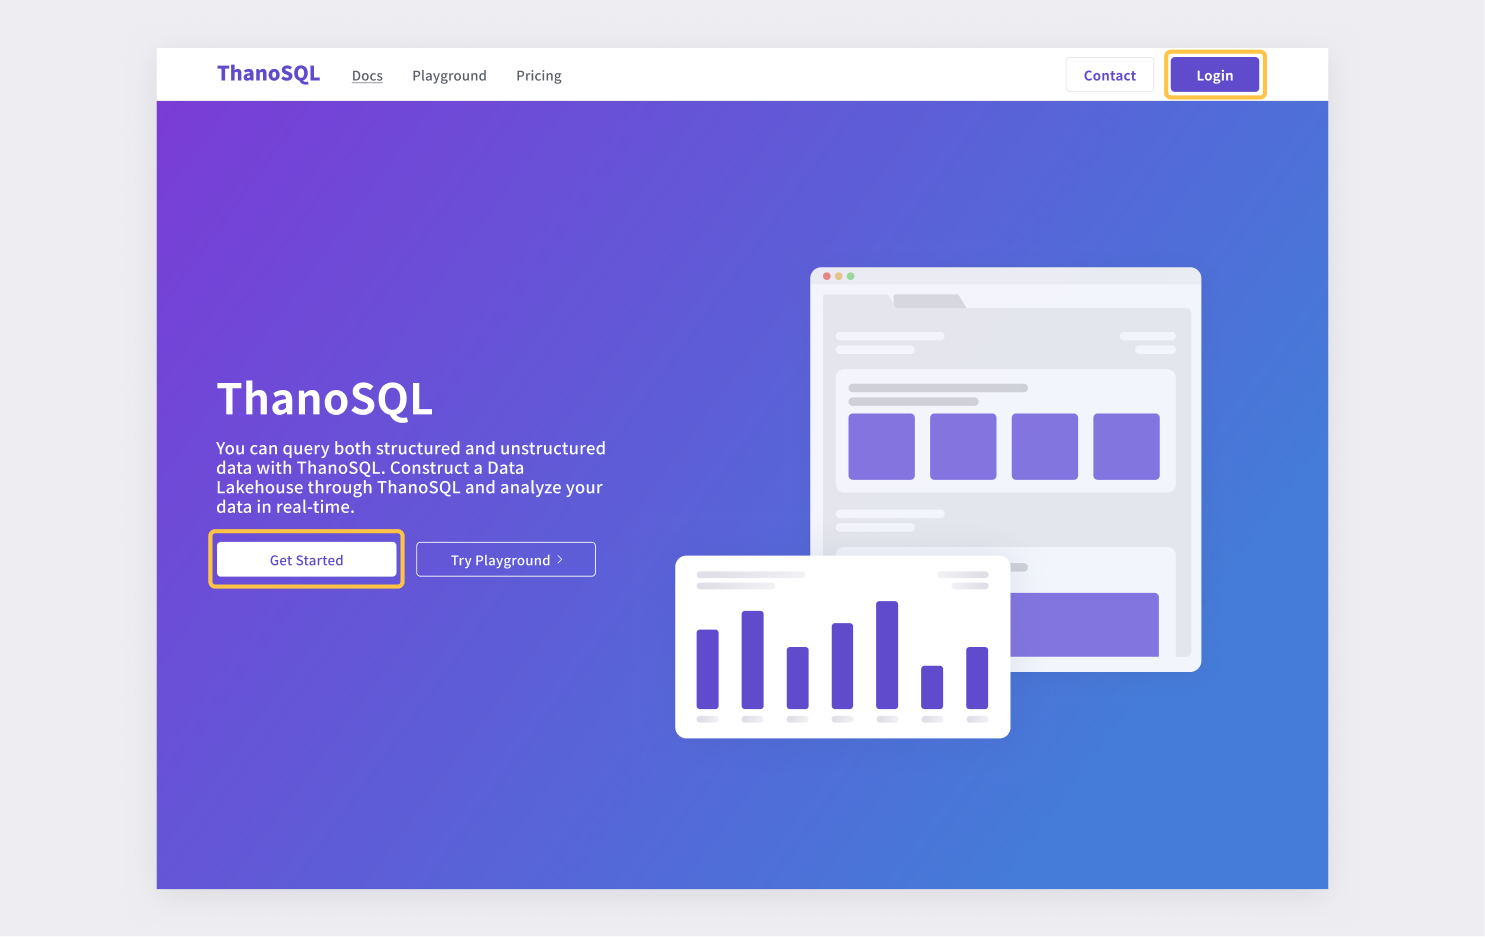
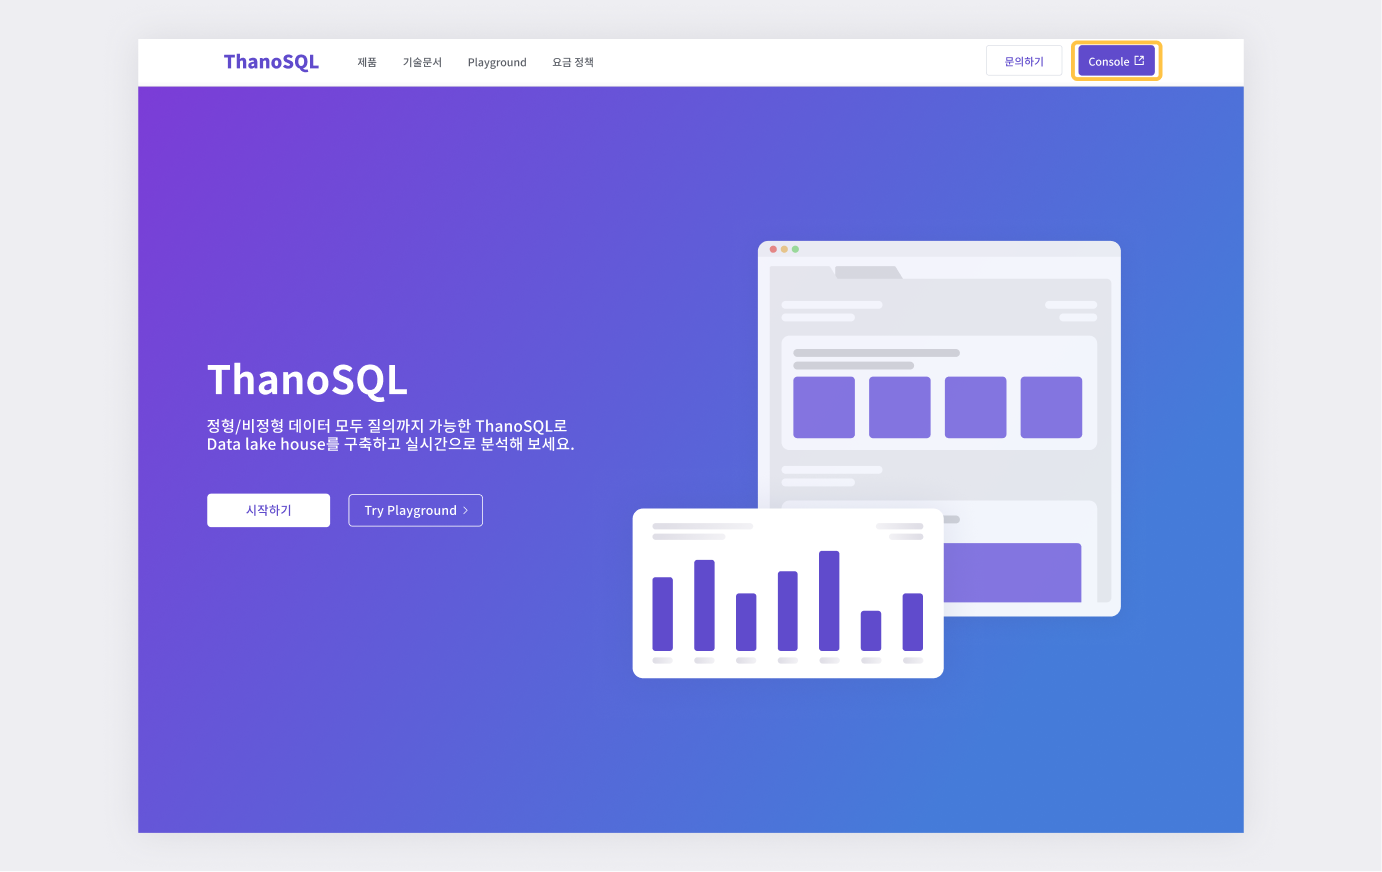
feat: update web manual en

diff --git a/docs/en/getting_started/web_manual.md b/docs/en/getting_started/web_manual.md
@@ -6,7 +6,7 @@ title: ThanoSQL Web Manual
 
 ## __1. Connect to [ThanoSQL Web](https://www.thanosql.ai/en/){style="color:#604bcc" target="_blank"}__
 
-Go to ThanoSQL and click on the **Login Button (or the start button at the homepage)** to go to the login page.
+Go to ThanoSQL and click on the **Console button (or the Start button at the homepage)** to go to the login page.
 
 [![IMAGE](../img/getting_started/img1.png){: style="max-height:none"}](../img/getting_started/img1.png)
 
@@ -17,18 +17,31 @@ Go to ThanoSQL and click on the **Login Button (or the start button at the homep
 
 [![IMAGE](../img/getting_started/img2_0.png){: style="max-height:none"}](../img/getting_started/img2_0.png)
 
-Click on the **Sign up Button** in the login page.
+Click on the **Sign Up button** in the login page.
 
 <br>
 
 [![IMAGE](../img/getting_started/img2_1.png){: style="max-height:none"}](../img/getting_started/img2_1.png)
 
-- Fill out the signup form and click on the **Create Account** button.
+- Fill out the sign up form and click on the **Create Account button**.
 - Verify your email address and agree to our Terms of Service and Privacy Policy to create an account.
 
-<br>
+## __3. Console__
+
+Select which product you want to use and experience sample applications built on ThanoSQL's powerful AI in the Playground.
 
 [![IMAGE](../img/getting_started/img2_2.png){: style="max-height:none"}](../img/getting_started/img2_2.png)
 
-- After signing up, go to the Console page.
-- You can select the desired service and start using it.
+- **Products**
+
+      Use the products offered by ThanoSQL.
+
+
+- **Playground**
+
+      Experience sample applications built on the powerful AI of ThanoSQL.
+
+
+ - **Settings**
+
+      Manage your account.
